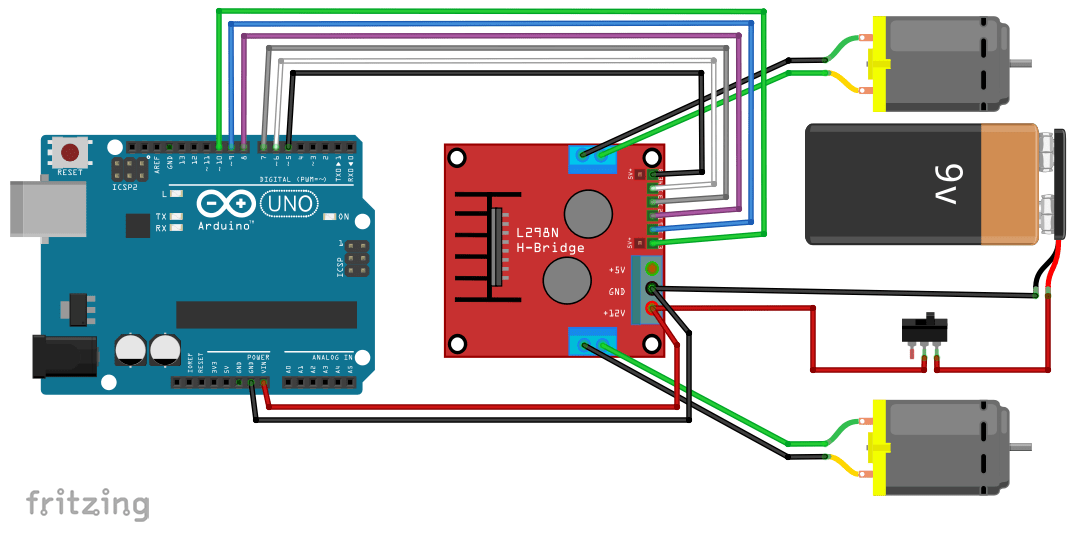
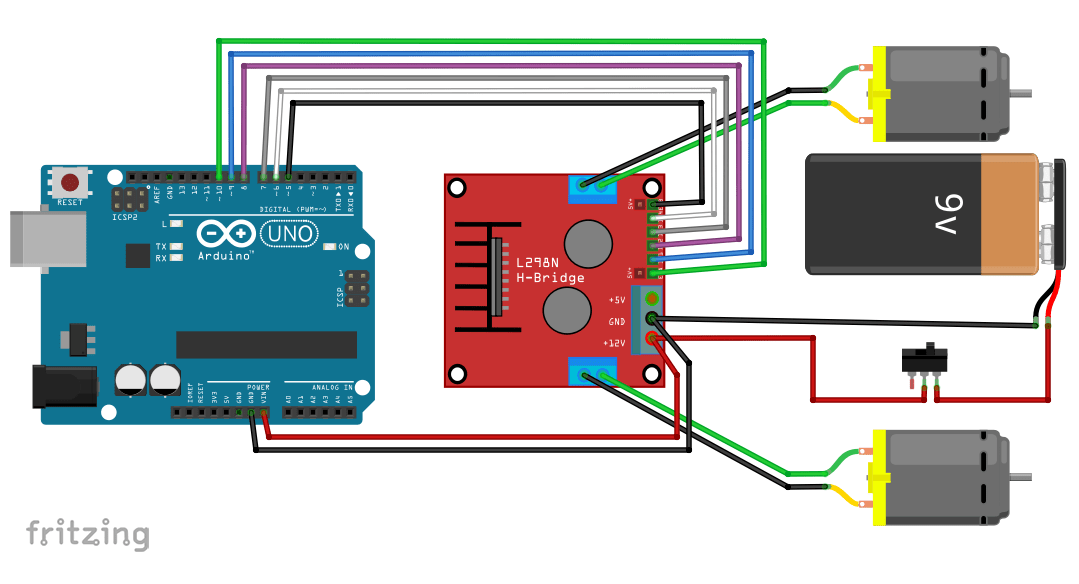
robobt

diff --git a/projeto/robo-bt.html b/projeto/robo-bt.html
@@ -35,7 +35,7 @@
     <!-- Banner das páginas -->
     <main class="BannerPaginas Flex">
         <div class="Container">
-            <h1>ROBÓTICA</h1>
+            <h1>ROBÓTICA LIVRE</h1>
         </div>
     </main>
 
@@ -44,9 +44,54 @@
         <div class="Container">
             <h2>Robô BT</h2>
             <p>
-                Robô controlado via bluetooth com Arduino que pode ser usados em projetos de robôs exploradores ou entretenimento. Tutorial passo a passo.
+                Robô controlado via Bluetooth com Arduino, ideal para projetos de exploração e entretenimento. Oferece mobilidade e controle remoto, sendo uma solução versátil para aplicações educativas, recreativas e de pesquisa em automação e robótica.
             </p>
-            <h3>Parâmetros de fábrica:</h3>
+            <h3>Apresentação do projeto:</h3>
+            <div class="Video">
+                <iframe width="560" height="315" src="https://www.youtube.com/embed/Sc7SiG_-oFQ?si=QP_8Bj5CryIEuERG"
+                    title="YouTube video player"
+                    allow="accelerometer; autoplay; clipboard-write; encrypted-media; gyroscope; picture-in-picture"
+                    allowfullscreen></iframe>
+            </div>            
+            <h3>Lista de material</h3>
+            <div class="Video">
+                <iframe width="560" height="315" src="https://www.youtube.com/embed/u9qgBlx2sac?si=Fqit3d62SGy49JFb"
+                    title="YouTube video player"
+                    allow="accelerometer; autoplay; clipboard-write; encrypted-media; gyroscope; picture-in-picture"
+                    allowfullscreen></iframe>
+            </div>
+            <h3>Montagem do chassi robótico</h3>
+            <div class="Video">
+                <iframe width="560" height="315" src="https://www.youtube.com/embed/_z3sIDIOpDk?si=d4u3cyLZIMY83SIe"
+                    title="YouTube video player"
+                    allow="accelerometer; autoplay; clipboard-write; encrypted-media; gyroscope; picture-in-picture"
+                    allowfullscreen></iframe>
+            </div>
+            <h3>Planejamento da montagem</h3>
+            <div class="Video">
+                <iframe width="560" height="315" src="https://www.youtube.com/embed/uCqN_OJdl2Q?si=sjzcyaJtCxs0x4X-"
+                    title="YouTube video player"
+                    allow="accelerometer; autoplay; clipboard-write; encrypted-media; gyroscope; picture-in-picture"
+                    allowfullscreen></iframe>
+            </div>
+            <h3>Alimentação do robô</h3>
+            <div class="Video">
+                <iframe width="560" height="315" src="https://www.youtube.com/embed/bLGtS1Mz7Eg?si=JKJZxClTS2h9fp0k"
+                    title="YouTube video player"
+                    allow="accelerometer; autoplay; clipboard-write; encrypted-media; gyroscope; picture-in-picture"
+                    allowfullscreen></iframe>
+            </div>            
+            <img src="../img/robob1.png" alt="diagrama elétrico">
+            <div class="Container Linha"></div>
+            <h3>Ligando o módulo L298N</h3>
+            <div class="Video">
+                <iframe width="560" height="315" src="https://www.youtube.com/embed/pSK2XkD0Hrg?si=OwM6s31oEj7CAeK8"
+                    title="YouTube video player"
+                    allow="accelerometer; autoplay; clipboard-write; encrypted-media; gyroscope; picture-in-picture"
+                    allowfullscreen></iframe>
+            </div>            
+            <img src="../img/robob2.png" alt="diagrama elétrico">
+            <div class="Container Linha"></div>      
             <ul>
                 <li>SSID: HC-06</li>
                 <li>Senha: 1234</li>

diff --git a/css/style.css b/css/style.css
@@ -480,6 +480,12 @@ h4 {
     #social {
         margin: 0;
     }
+
+    /*** Páginas de conteúdo ***/
+    .Video iframe {
+        width: 560px;
+        height: 315px;
+    }
 }
 
 /* Smartphone landscape <<<<<<<<<<<<<<<< */
